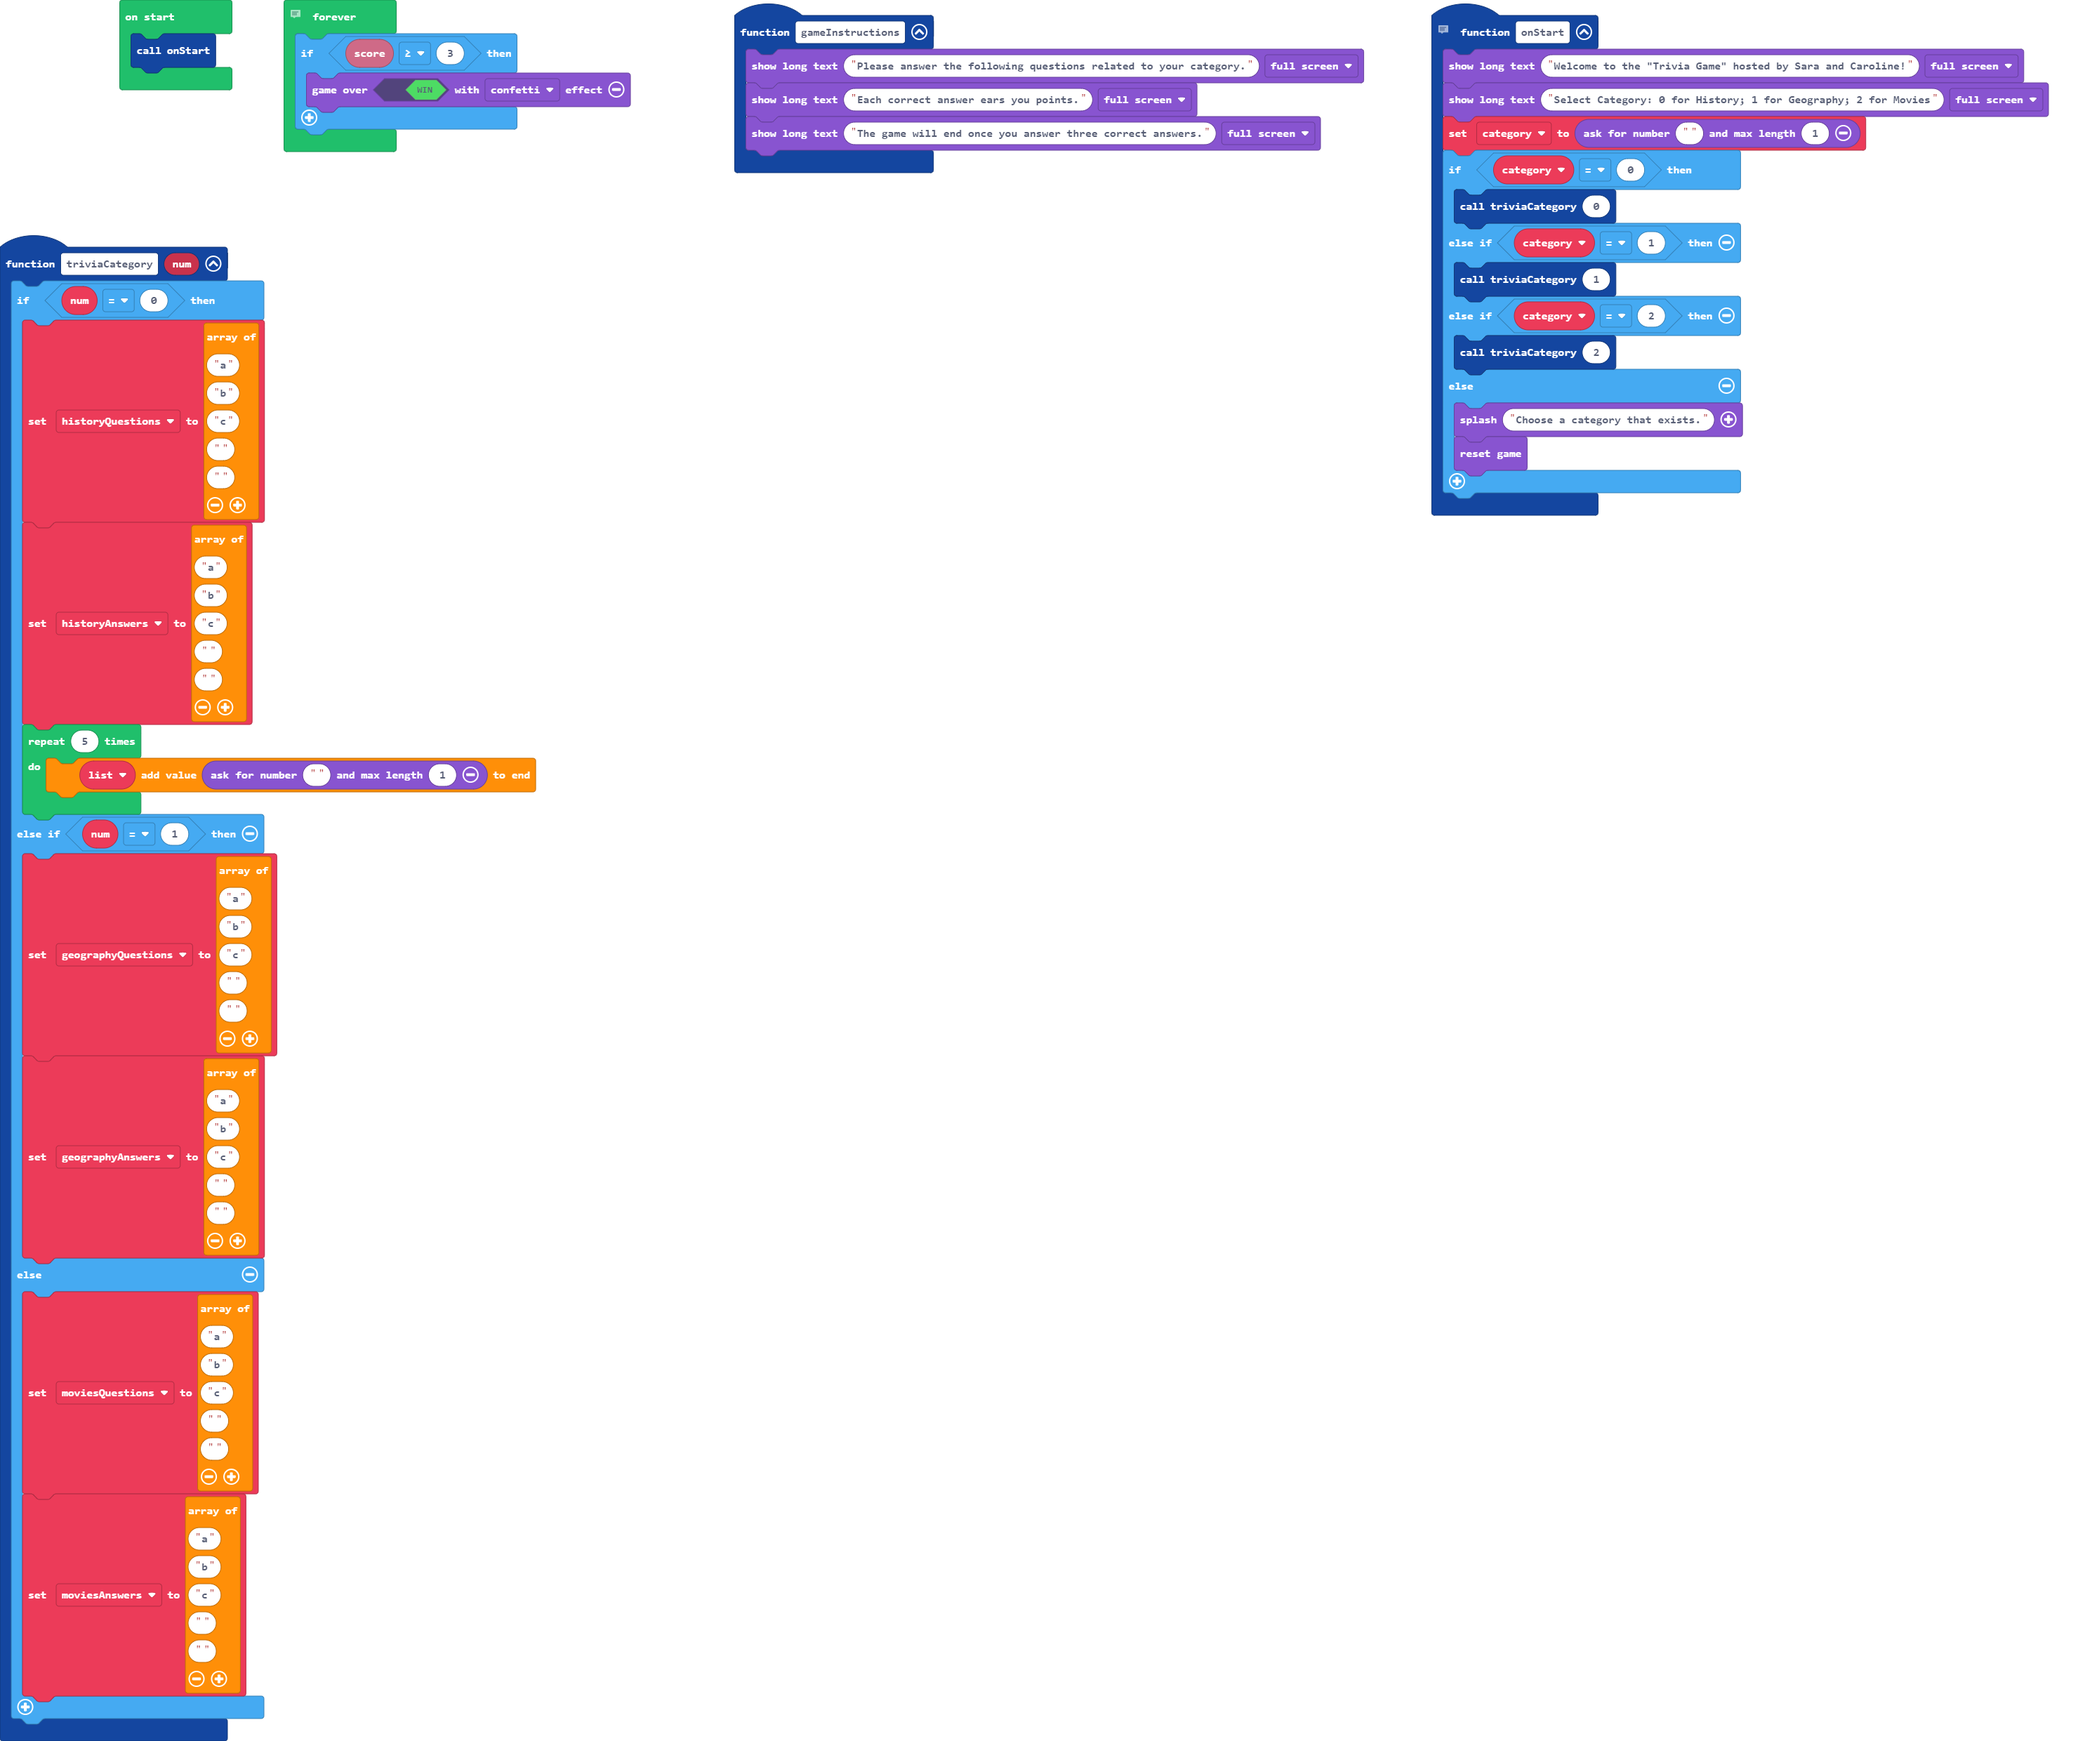
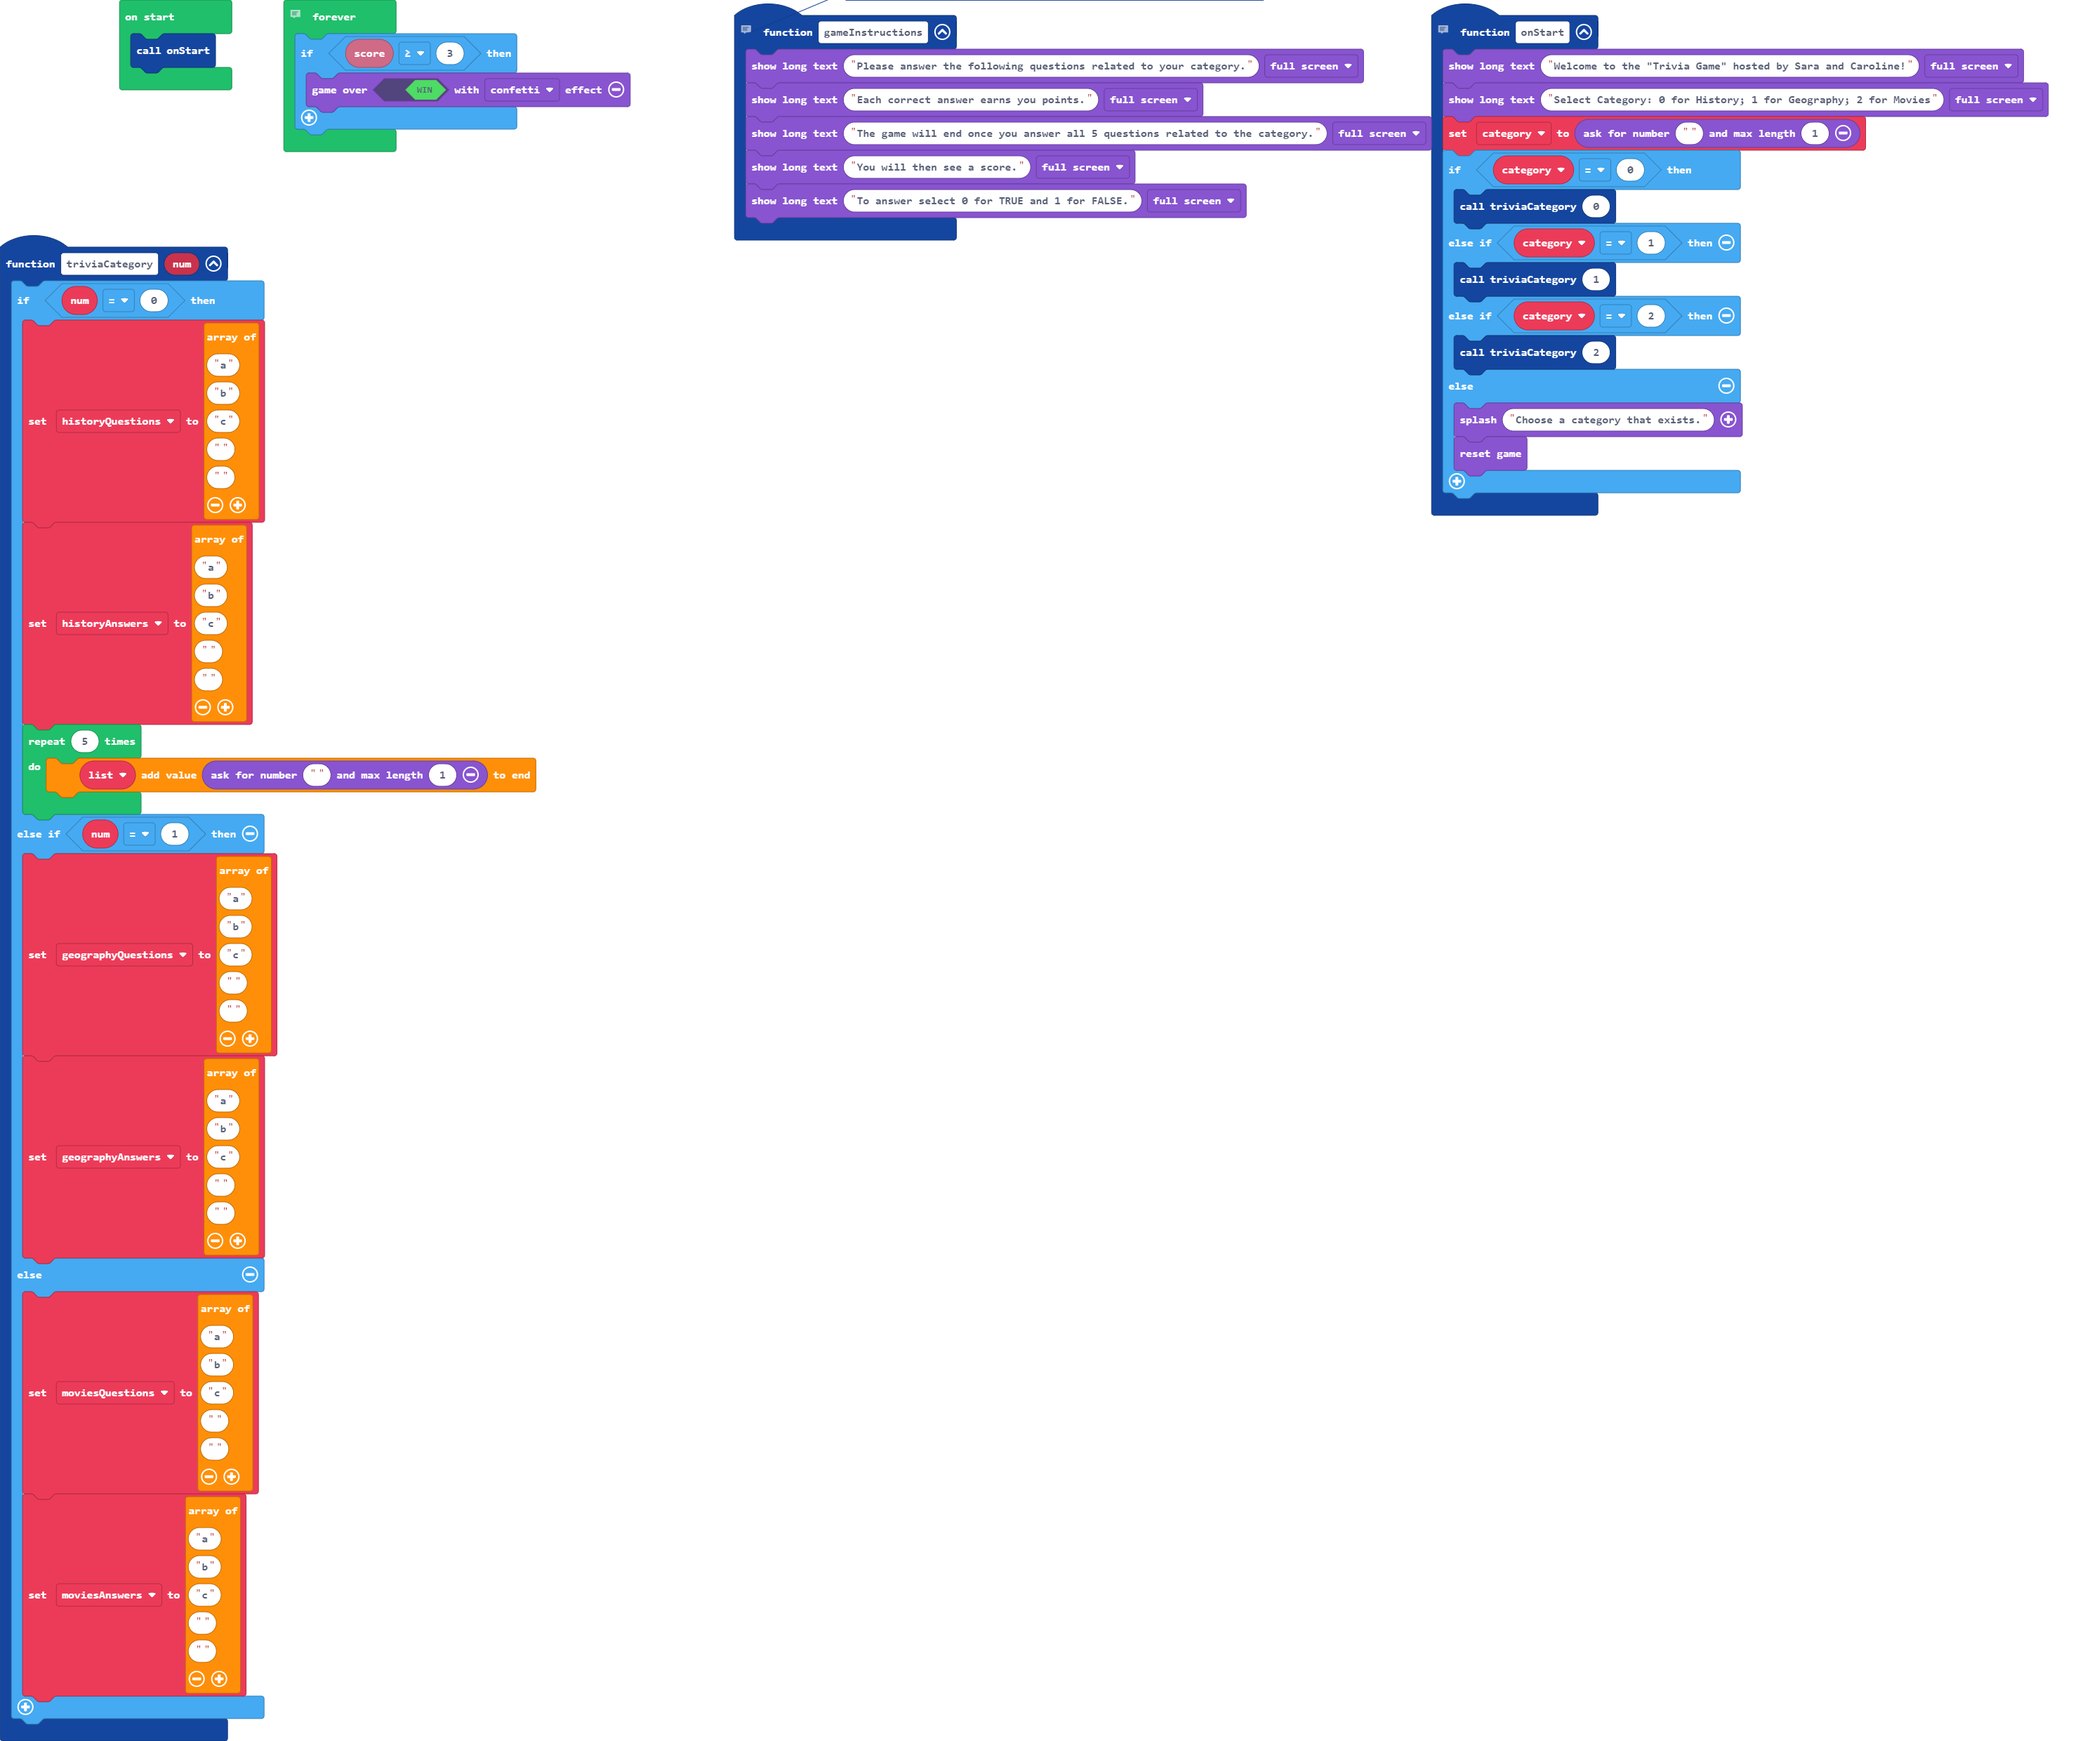
Update main.blocks, main.ts

Changed region(s): [[0.3407, 0.0621, 0.7125, 0.1552], [0.4337, 0.0, 0.4646, 0.031], [0.3717, 0.0, 0.4027, 0.031]]

diff --git a/main.ts b/main.ts
@@ -1,7 +1,12 @@
+// - The gameInstructions function decreases the complexity of the program. 
+// - Since each category will require the same instructions, rewriting the code each time would increase the lines of code. 
+// - This function also makes it simpler to alter the code if there are changes that need to made or if there is a bug. 
 function gameInstructions () {
     game.showLongText("Please answer the following questions related to your category.", DialogLayout.Full)
-    game.showLongText("Each correct answer ears you points.", DialogLayout.Full)
-    game.showLongText("The game will end once you answer three correct answers.", DialogLayout.Full)
+    game.showLongText("Each correct answer earns you points.", DialogLayout.Full)
+    game.showLongText("The game will end once you answer all 5 questions related to the category.", DialogLayout.Full)
+    game.showLongText("You will then see a score.", DialogLayout.Full)
+    game.showLongText("To answer select 0 for TRUE and 1 for FALSE.", DialogLayout.Full)
 }
 // - this function contains all the lines of code needed to initiate the game
 // - this shortens the code under the onStart block
